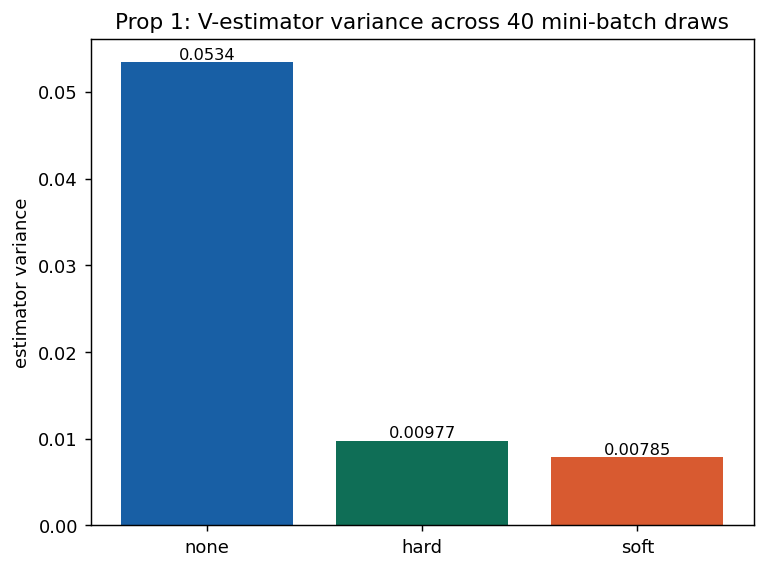
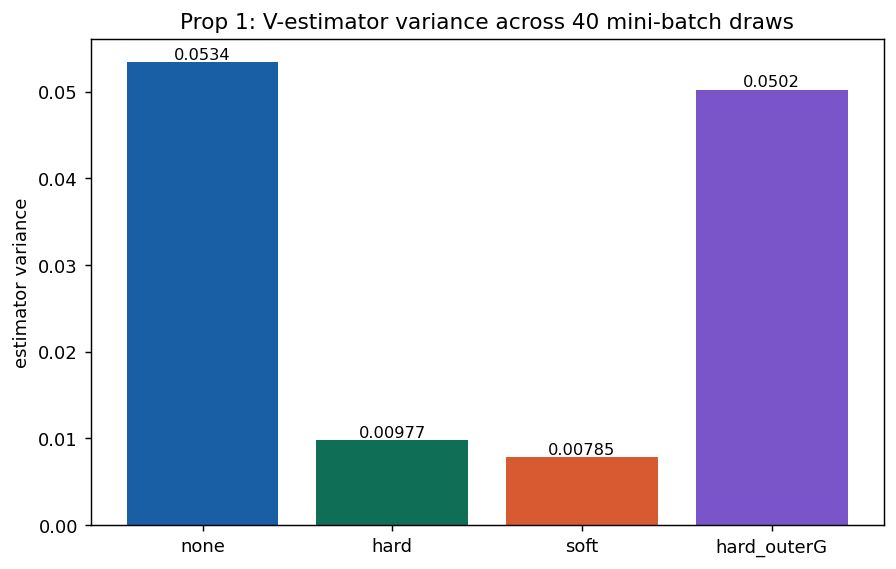
Sticky outer-Γ: cluster_marg_p_pool fixes Prop 1 regression
Outer-Γ broke Prop 1 (variance 0.05, back to baseline 0.05) because Γ
was recomputed from per-mini-batch marg_p, injecting clustering noise
into the correction.

Sticky fix: precompute marg_p once from the FULL pool, pass it through
cluster_marg_p_pool. Same idea as sticky centroids — population-level
structure, not mini-batch. marg_q still varies per call so the missing-
mode signal for Thm 2 is preserved.

Wired through:
  drift_loss_ot.py    _compute_V_clustered, drift_loss_ot public API
  prop_variance.py    computes marg_p_pool from p_pool once, passes per draw
  thm_no_spurious.py  also passes marg_p_pool (p_t is fixed there)

Expected after re-run:
  prop_variance hard_outerG variance ≈ 0.01 (matches hard) → SNR 200+
  thm_no_spurious outer-Γ unchanged at 2200x ratio (already used fixed p_t)

diff --git a/experiments/prop_variance.py b/experiments/prop_variance.py
@@ -25,14 +25,15 @@ matplotlib.use("Agg")
 import matplotlib.pyplot as plt
 
 from _common import device, out_dir, sample_ring8
-from drift_loss_ot import _compute_V_clustered  # noqa: E402
-from clustering import batched_kmeans  # noqa: E402
+from drift_loss_ot import _compute_V_clustered, _cluster_marginals  # noqa: E402
+from clustering import batched_kmeans, assign_to_centroids  # noqa: E402
 
 
 def _V(q: torch.Tensor, p: torch.Tensor, cluster_mode: str, K: int,
        mask_lambda: float,
        centroids: torch.Tensor | None = None,
-       use_outer_gamma: bool = False) -> torch.Tensor:
+       use_outer_gamma: bool = False,
+       marg_p_pool: torch.Tensor | None = None) -> torch.Tensor:
     eps = torch.tensor(0.05 * (q.shape[-1] ** 0.5), device=q.device)
     return _compute_V_clustered(
         q[None], p[None], q[None].detach(),
@@ -45,6 +46,7 @@ def _V(q: torch.Tensor, p: torch.Tensor, cluster_mode: str, K: int,
         use_per_cluster_sinkhorn=True,
         use_outer_gamma=use_outer_gamma,
         outer_gamma_eps=0.01,
+        cluster_marg_p_pool=marg_p_pool,
     )[0]
 
 
@@ -83,6 +85,11 @@ def main():
     )                                                # [1, K, D]
     centroids_fixed = centroids_pool.squeeze(0)      # [K, D]
 
+    # Pool-level cluster marginal for p — used by outer Γ so it doesn't
+    # absorb mini-batch noise (which would erase the variance win).
+    labels_pool = assign_to_centroids(p_pool.unsqueeze(0), centroids_pool)
+    marg_p_pool = _cluster_marginals(labels_pool, args.n_clusters).squeeze(0)  # [K]
+
     # Last tuple element: use_outer_gamma flag
     modes = [
         ("none",         1,                0.0, False),
@@ -98,8 +105,9 @@ def main():
         for mode, K, lam, og in modes:
             cents = None if mode == "none" else centroids_fixed
             inner_mode = "hard" if mode in ("hard", "hard_outerG") else mode
+            mpool = marg_p_pool if og else None
             V = _V(q, p_batch, inner_mode, K, lam, centroids=cents,
-                   use_outer_gamma=og)
+                   use_outer_gamma=og, marg_p_pool=mpool)
             stacks[mode].append(V)
 
     rows = []

diff --git a/drift_loss_ot.py b/drift_loss_ot.py
@@ -744,6 +744,7 @@ def _compute_V_clustered(
     use_outer_gamma: bool = False,
     outer_gamma_eps: float = 0.01,
     outer_gamma_iter: int = 200,
+    cluster_marg_p_pool: torch.Tensor | None = None,
 ) -> torch.Tensor:
     """Cluster-wise debiased OT velocity V = T_pq - T_qneg (+ optional CFG).
 
@@ -801,8 +802,16 @@ def _compute_V_clustered(
         # whose marginal is non-zero, even when one side is empty.
         if use_outer_gamma:
             cz = _cluster_marginals(labels_z, n_clusters).to(z.dtype)
-            cp = _cluster_marginals(labels_p, n_clusters).to(z.dtype)
             cn = _cluster_marginals(labels_n, n_clusters).to(z.dtype)
+            # Sticky marg_p from pool removes mini-batch noise in Γ → preserves
+            # the variance win (Prop 1). marg_q still varies per call so the
+            # missing-mode signal for Thm 2 is unaffected.
+            if cluster_marg_p_pool is not None:
+                cp = cluster_marg_p_pool.to(z)
+                if cp.dim() == 1:
+                    cp = cp.unsqueeze(0).expand(z.shape[0], -1)
+            else:
+                cp = _cluster_marginals(labels_p, n_clusters).to(z.dtype)
             beta_p, off_p = _outer_gamma_targets(
                 centroids, centroids, cz, cp,
                 eps_gamma=outer_gamma_eps, num_iter=outer_gamma_iter,
@@ -881,6 +890,7 @@ def drift_loss_ot(
     use_outer_gamma: bool = False,
     outer_gamma_eps: float = 0.01,
     outer_gamma_iter: int = 200,
+    cluster_marg_p_pool: torch.Tensor | None = None,
 ) -> Tuple[torch.Tensor, Dict[str, torch.Tensor]]:
     """Debiased entropic-OT drifting loss.
 
@@ -1003,6 +1013,7 @@ def drift_loss_ot(
                     use_outer_gamma=use_outer_gamma,
                     outer_gamma_eps=outer_gamma_eps,
                     outer_gamma_iter=outer_gamma_iter,
+                    cluster_marg_p_pool=cluster_marg_p_pool,
                 )
                 f_norm = (V_raw ** 2).mean()
                 info[f"loss_{R}"] = f_norm

diff --git a/experiments/thm_no_spurious.py b/experiments/thm_no_spurious.py
@@ -31,8 +31,8 @@ matplotlib.use("Agg")
 import matplotlib.pyplot as plt
 
 from _common import device, out_dir, sample_ring8
-from drift_loss_ot import drift_loss_ot, _compute_V_clustered  # noqa: E402
-from clustering import batched_kmeans  # noqa: E402
+from drift_loss_ot import drift_loss_ot, _compute_V_clustered, _cluster_marginals  # noqa: E402
+from clustering import batched_kmeans, assign_to_centroids  # noqa: E402
 
 
 def _q_alpha(alpha: float, n: int, seed: int) -> np.ndarray:
@@ -63,7 +63,8 @@ def _V_cluster(q: torch.Tensor, p: torch.Tensor, K: int,
                centroids: torch.Tensor | None = None,
                use_per_cluster: bool = True,
                use_outer_gamma: bool = False,
-               outer_gamma_eps: float = 0.01) -> torch.Tensor:
+               outer_gamma_eps: float = 0.01,
+               marg_p_pool: torch.Tensor | None = None) -> torch.Tensor:
     eps = torch.tensor(0.05 * (q.shape[-1] ** 0.5), device=q.device)
     return _compute_V_clustered(
         q[None], p[None], q[None].detach(),
@@ -74,6 +75,7 @@ def _V_cluster(q: torch.Tensor, p: torch.Tensor, K: int,
         use_per_cluster_sinkhorn=use_per_cluster,
         use_outer_gamma=use_outer_gamma,
         outer_gamma_eps=outer_gamma_eps,
+        cluster_marg_p_pool=marg_p_pool,
     )[0]
 
 
@@ -106,6 +108,8 @@ def main():
     # Sticky centroids from the full p
     _, cents = batched_kmeans(p_t.unsqueeze(0), K=args.n_clusters, num_iter=30)
     cents_K = cents.squeeze(0)
+    labels_pool = assign_to_centroids(p_t.unsqueeze(0), cents)
+    marg_p_pool = _cluster_marginals(labels_pool, args.n_clusters).squeeze(0)
 
     rows = []
     series = {name: np.zeros(len(alphas)) for name in
@@ -133,6 +137,7 @@ def main():
                            use_per_cluster=True,
                            use_outer_gamma=True,
                            outer_gamma_eps=0.01,   # sharp Γ → β→1 at q=p
+                           marg_p_pool=marg_p_pool,
                            ).pow(2).sum(-1).mean().item())
             vals["meanshift"].append(_V_meanshift(q_t, p_t).pow(2).sum(-1).mean().item())
         for name in series: